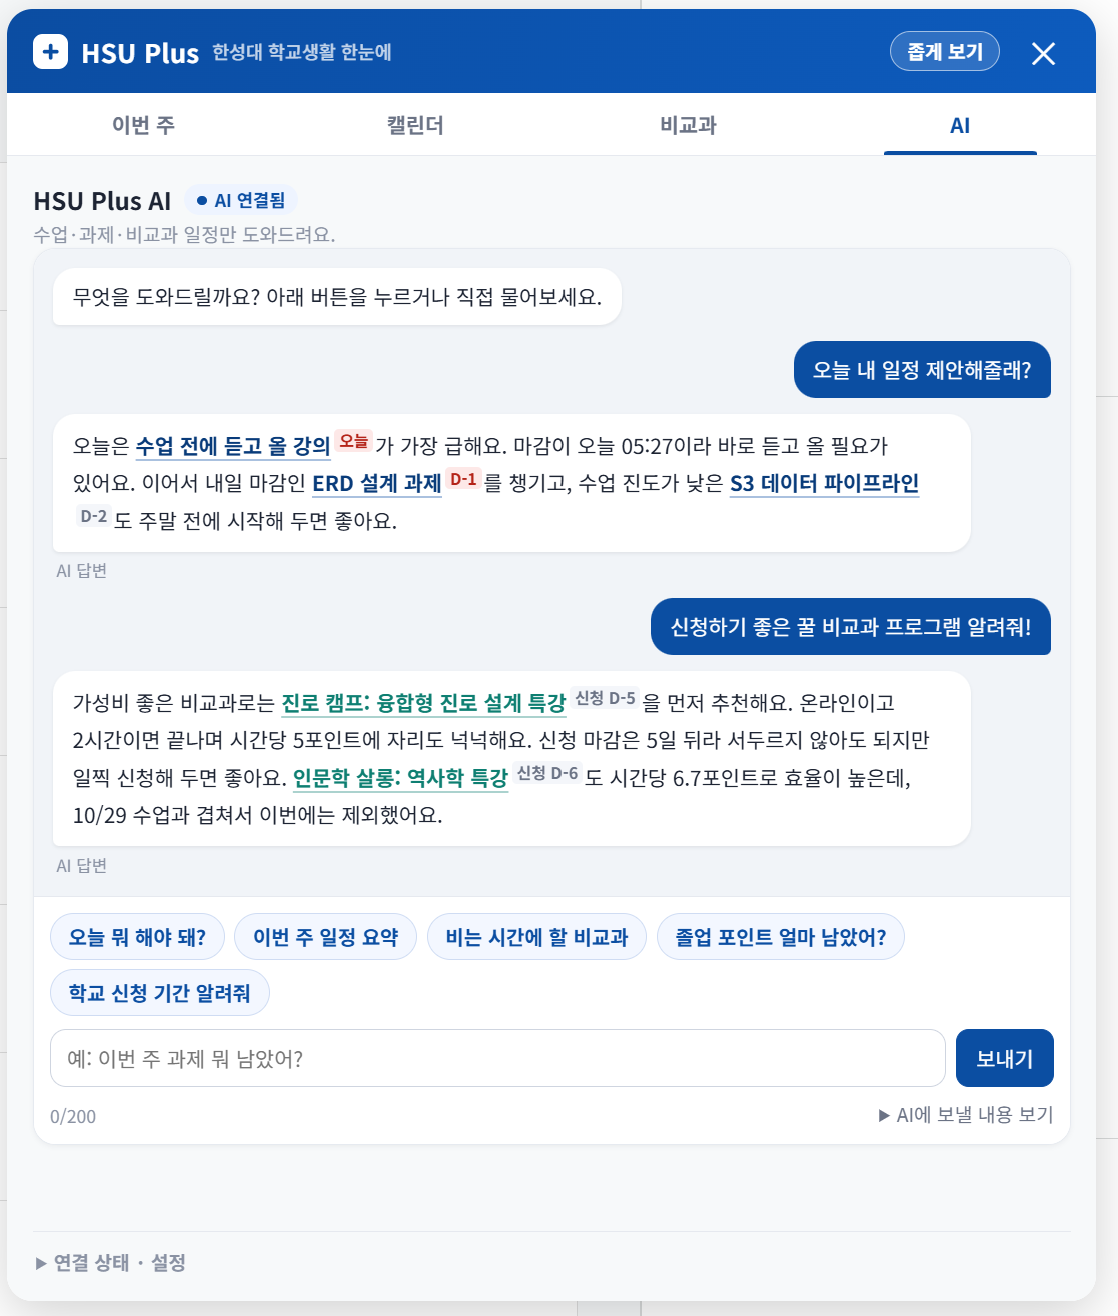
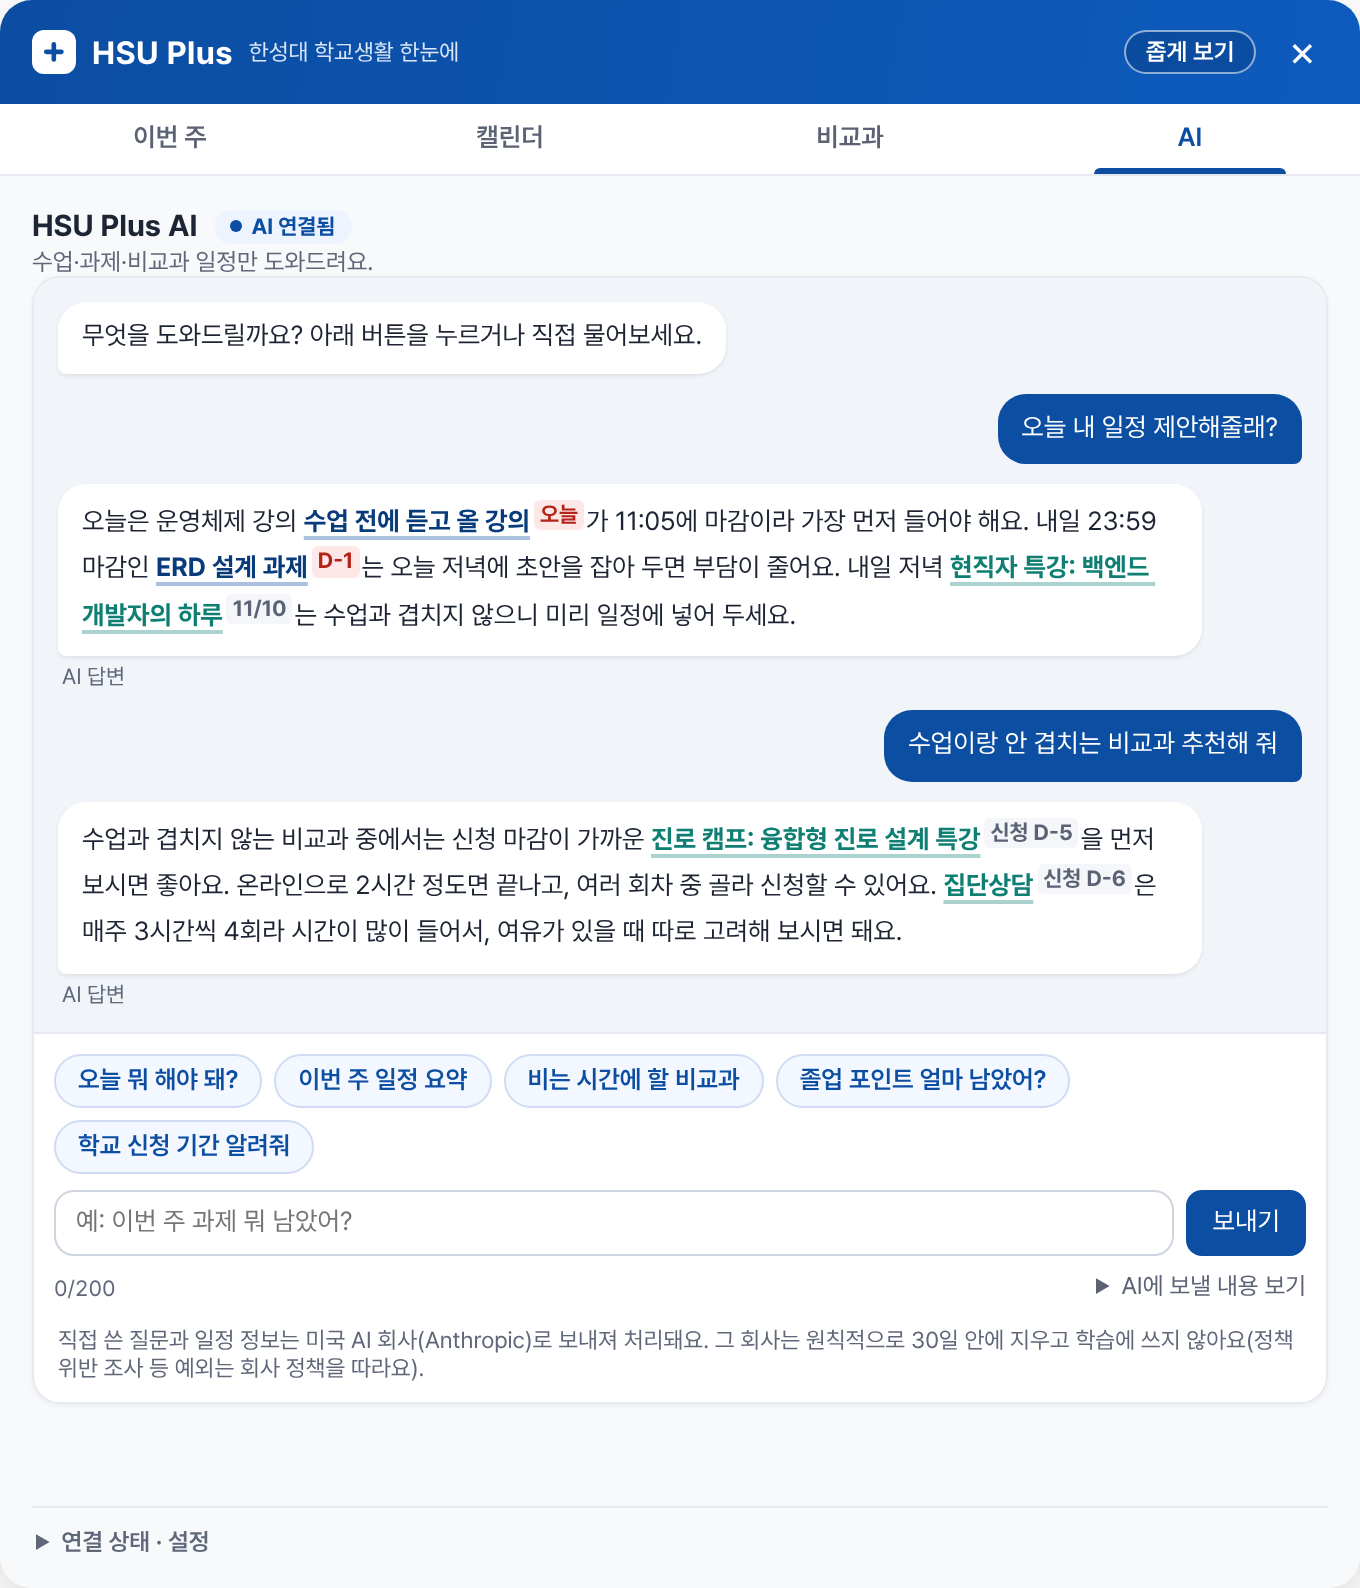
README 그림 새로 찍음: 평일만 보이는 주간 캘린더, 실제 AI 답
- docs/images 7장을 지금 화면으로 교체 (시연 모드 가짜 데이터, 패널만)
- 주간 캘린더는 토·일을 접은 평일 화면
- AI 그림은 가짜 데이터로 실제 AI 서버에 물어본 답
- README·DEMO.md의 그림 찍는 방법 설명을 사실에 맞게 수정

diff --git a/docs/DEMO.md b/docs/DEMO.md
@@ -43,6 +43,8 @@
 
 10/23부터 README 그림은 **넓게 보기** 패널로 찍어요 (11/2부터 넓게 보기가 기본이고, 시연 모드는 좁게 고른 것을 기억하지 않아요). 강의실(과목 페이지) 그림은 시연 모드로 가짜를 만들 수 없어서 README에서 뺐어요.
 
+11/11부터 README 그림은 자동으로 찍은 것을 써요. 시연 모드를 켠 크롬에서 패널만 찍었고(Pretendard 글꼴, 넓게 보기), 오늘을 월요일 오전으로 맞춰 주간 캘린더는 토·일을 접은 평일 화면이에요. AI 그림은 가짜 데이터로 실제 AI 서버에 직접 물어본 답이에요(질문 2개). 뒤쪽 e클래스 화면은 그림에 들어가지 않아요.
+
 ## 자동 점검 (개발용)
 
 `node tools/screenshots.mjs`를 실행하면 클라우드나 내 컴퓨터에서 시연 모드를 켜고 화면이 깨지지 않았는지 자동으로 찍어 봐요. 결과는 `tools/shots/`에 저장되고 저장소에는 올라가지 않아요. e클래스 배경을 흉내 낸 빈 화면이라 글꼴·배경이 실제와 달라서 README 그림으로는 쓰지 않아요. 시연 모드가 학교 사이트로 요청을 보내면 결과에 표시돼요.

diff --git a/README.md b/README.md
@@ -9,7 +9,7 @@ e클래스 화면 안에 보여주는 크롬 확장 프로그램 프로토타입
 > 학생이 만든 프로토타입이며, 학교 공식 서비스가 아닙니다.
 
 ## 화면
-> 아래 화면은 모두 **가짜 데이터**로 찍은 예시입니다(실제 e클래스 위에서 시연 모드, `docs/DEMO.md`). 실제 계정 정보는 들어 있지 않습니다.
+> 아래 화면은 모두 **가짜 데이터**로 찍은 예시입니다(시연 모드, `docs/DEMO.md`). 실제 계정 정보는 들어 있지 않습니다.
 
 <table>
 <tr>
